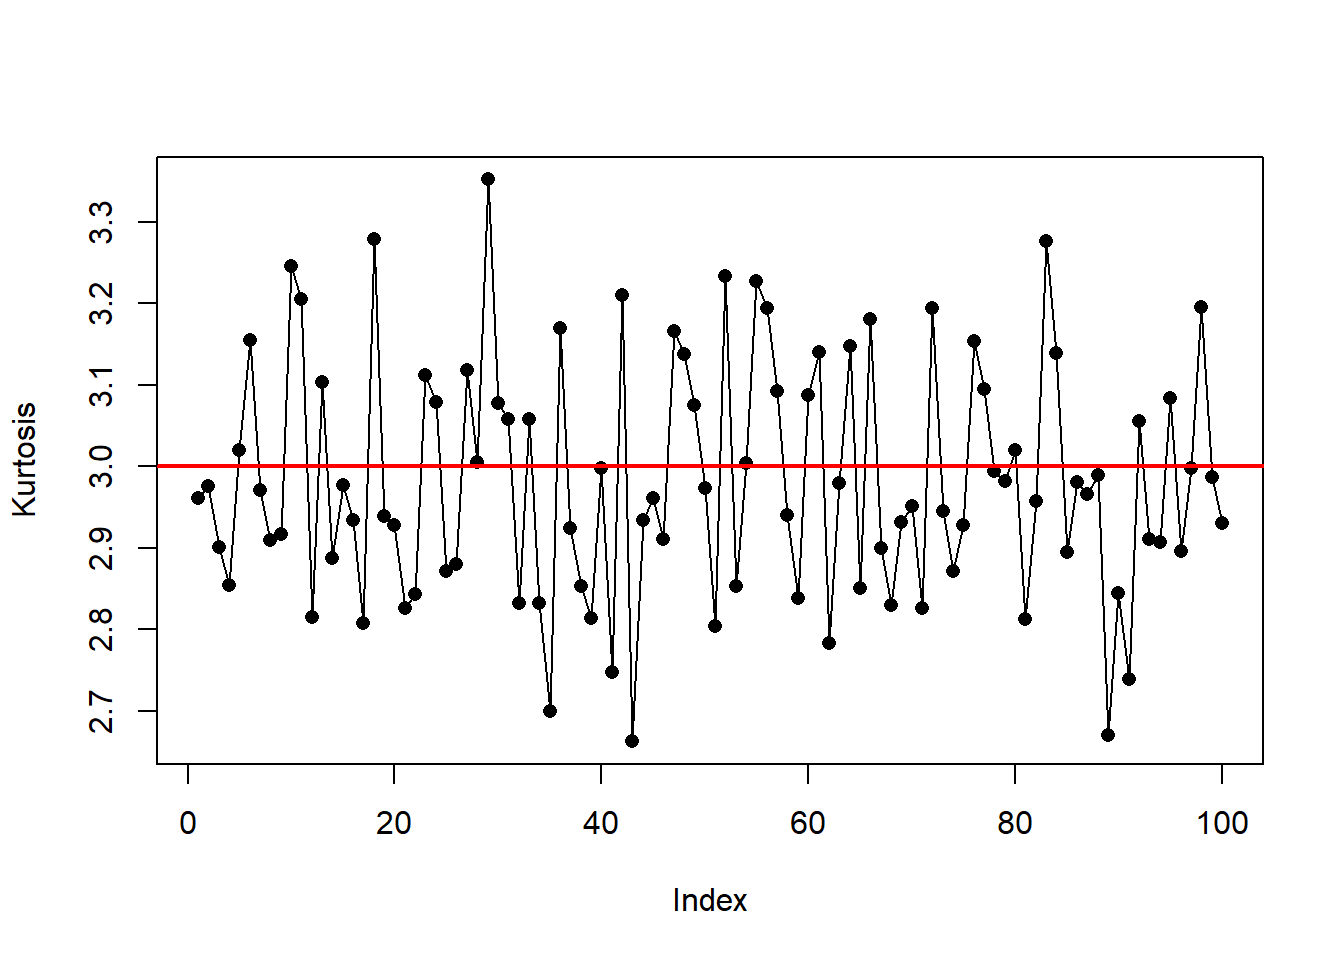
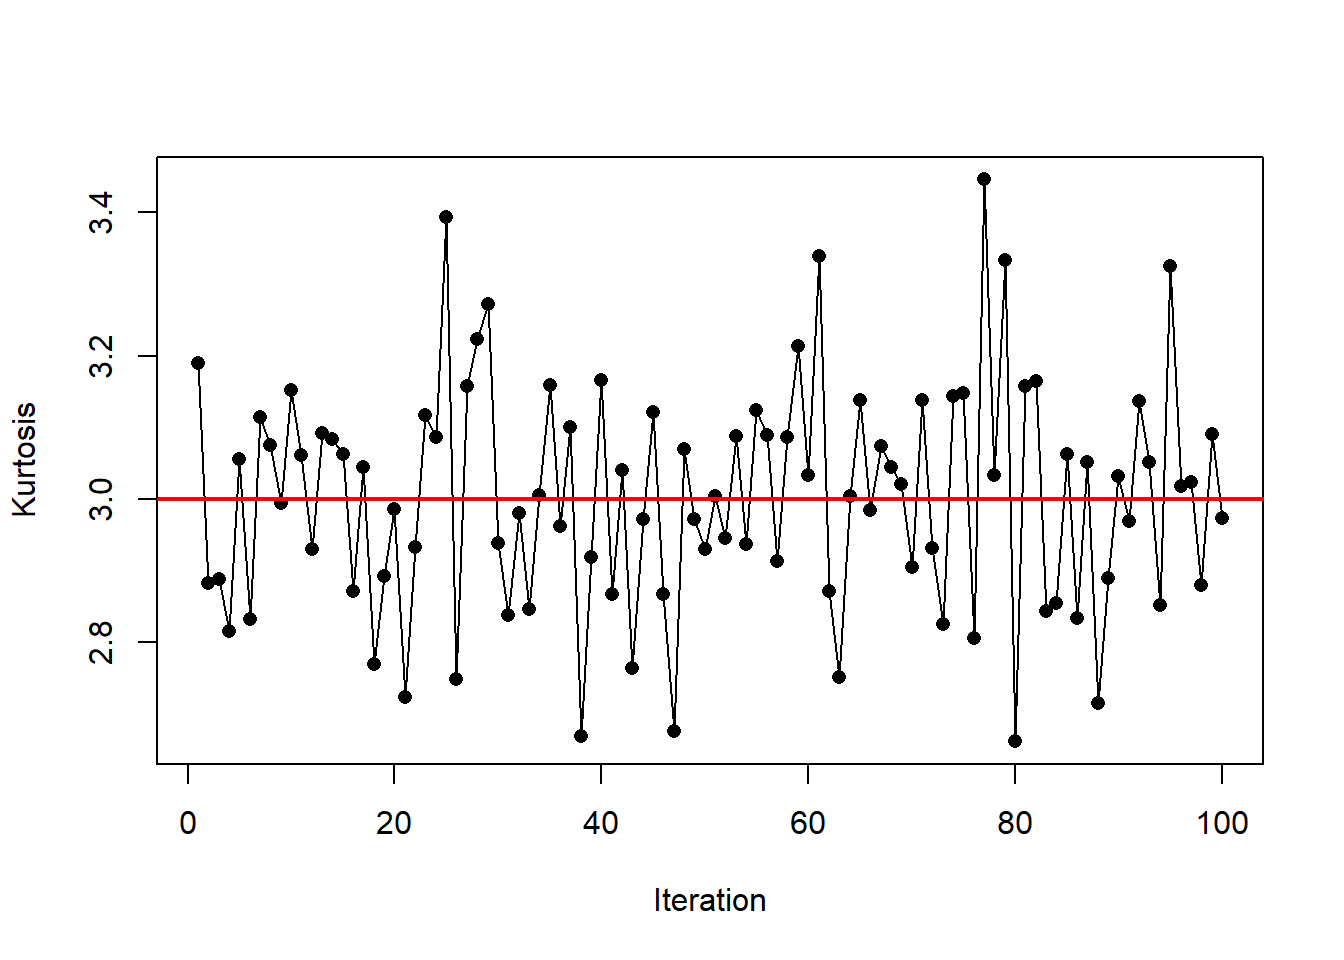
files updated

diff --git a/docs/multiplication.html b/docs/multiplication.html
@@ -122,6 +122,7 @@ code span.wa { color: #60a0b0; font-weight: bold; font-style: italic; } /* Warni
   }
 }</script>
 
+  <script src="https://cdn.jsdelivr.net/npm/mathjax@3/es5/tex-chtml-full.js" type="text/javascript"></script>
 
 <link rel="stylesheet" href="styles.css">
 </head>
@@ -187,19 +188,26 @@ code span.wa { color: #60a0b0; font-weight: bold; font-style: italic; } /* Warni
 
 </header>
 
-<p>To multiply numbers in R use <code>*</code></p>
-<div class="cell">
+<p>The kurtosis of a Normal distribution, say <span class="math inline">\(X\)</span>, is 3. This is given by <span class="math display">\[COK = \frac{\mu_4}{\sigma_X^4}= \frac{\mu_4}{(Var(X))^2}\]</span> with <span class="math inline">\(\mu_4=\mu'_4-4\mu_3'\mu_X+6\mu_2'(\mu_X)^2-3(\mu_X)^4\)</span> and <span class="math inline">\(Var(X)=E[X^2]-(E[X])^2\)</span>.</p>
+<p>The package <code>moments</code> in <code>R</code> can be used to calculate the kurtosis of a Normal distribution. If this is done multiple times on a different data set generated from a Normal distribution with mean <span class="math inline">\(\mu_X\)</span> and variance <span class="math inline">\(\sigma_X^2\)</span>, one can see that it converges to 3. Below a function named <code>kurt_norm</code> is created to implement this. The kurtosis at each iteration are shown in Figure 1.</p>
+<div class="cell" data-layout-align="center">
 <div class="sourceCode cell-code" id="cb1"><pre class="sourceCode r code-with-copy"><code class="sourceCode r"><span id="cb1-1"><a href="#cb1-1" aria-hidden="true" tabindex="-1"></a><span class="fu">library</span>(moments)</span>
 <span id="cb1-2"><a href="#cb1-2" aria-hidden="true" tabindex="-1"></a></span>
-<span id="cb1-3"><a href="#cb1-3" aria-hidden="true" tabindex="-1"></a>x_kurtosis <span class="ot">=</span> <span class="fu">c</span>()</span>
-<span id="cb1-4"><a href="#cb1-4" aria-hidden="true" tabindex="-1"></a><span class="cf">for</span> (i <span class="cf">in</span> <span class="dv">1</span><span class="sc">:</span><span class="dv">100</span>) {</span>
-<span id="cb1-5"><a href="#cb1-5" aria-hidden="true" tabindex="-1"></a>  x_norm <span class="ot">=</span> <span class="fu">rnorm</span>(<span class="dv">1000</span>)</span>
-<span id="cb1-6"><a href="#cb1-6" aria-hidden="true" tabindex="-1"></a>  x_kurtosis[i] <span class="ot">=</span> <span class="fu">kurtosis</span>(x_norm)</span>
-<span id="cb1-7"><a href="#cb1-7" aria-hidden="true" tabindex="-1"></a>  </span>
-<span id="cb1-8"><a href="#cb1-8" aria-hidden="true" tabindex="-1"></a>}</span>
-<span id="cb1-9"><a href="#cb1-9" aria-hidden="true" tabindex="-1"></a></span>
-<span id="cb1-10"><a href="#cb1-10" aria-hidden="true" tabindex="-1"></a><span class="fu">plot</span>(x_kurtosis,<span class="at">type=</span><span class="st">"o"</span>,<span class="at">ylab =</span> <span class="st">"Kurtosis"</span>,<span class="at">pch=</span><span class="dv">16</span>)</span>
-<span id="cb1-11"><a href="#cb1-11" aria-hidden="true" tabindex="-1"></a><span class="fu">abline</span>(<span class="at">h=</span><span class="dv">3</span>,<span class="at">col=</span><span class="st">"red"</span>,<span class="at">lwd=</span><span class="dv">2</span>)</span></code><button title="Copy to Clipboard" class="code-copy-button"><i class="bi"></i></button></pre></div>
+<span id="cb1-3"><a href="#cb1-3" aria-hidden="true" tabindex="-1"></a>kurt_norm <span class="ot">=</span> <span class="cf">function</span>(<span class="at">N =</span> <span class="dv">100</span>,<span class="at">n =</span> <span class="dv">1000</span>,<span class="at">mu =</span> <span class="dv">0</span>,<span class="at">sigma =</span> <span class="dv">1</span>){</span>
+<span id="cb1-4"><a href="#cb1-4" aria-hidden="true" tabindex="-1"></a>  <span class="co"># N     : number of iterations</span></span>
+<span id="cb1-5"><a href="#cb1-5" aria-hidden="true" tabindex="-1"></a>  <span class="co"># n     : sample size for the generated random values from N(mu,sigma)</span></span>
+<span id="cb1-6"><a href="#cb1-6" aria-hidden="true" tabindex="-1"></a>  <span class="co"># mu    : mean of the normal distribution</span></span>
+<span id="cb1-7"><a href="#cb1-7" aria-hidden="true" tabindex="-1"></a>  <span class="co"># sigma : variance of the normal distribution</span></span>
+<span id="cb1-8"><a href="#cb1-8" aria-hidden="true" tabindex="-1"></a>  x_kurtosis <span class="ot">=</span> <span class="fu">c</span>()</span>
+<span id="cb1-9"><a href="#cb1-9" aria-hidden="true" tabindex="-1"></a>  <span class="cf">for</span> (i <span class="cf">in</span> <span class="dv">1</span><span class="sc">:</span>N) {</span>
+<span id="cb1-10"><a href="#cb1-10" aria-hidden="true" tabindex="-1"></a>    x_norm <span class="ot">=</span> <span class="fu">rnorm</span>(n)</span>
+<span id="cb1-11"><a href="#cb1-11" aria-hidden="true" tabindex="-1"></a>    x_kurtosis[i] <span class="ot">=</span> <span class="fu">kurtosis</span>(x_norm)</span>
+<span id="cb1-12"><a href="#cb1-12" aria-hidden="true" tabindex="-1"></a>  }</span>
+<span id="cb1-13"><a href="#cb1-13" aria-hidden="true" tabindex="-1"></a>  <span class="fu">return</span>(x_kurtosis)</span>
+<span id="cb1-14"><a href="#cb1-14" aria-hidden="true" tabindex="-1"></a>}</span>
+<span id="cb1-15"><a href="#cb1-15" aria-hidden="true" tabindex="-1"></a>res <span class="ot">=</span> <span class="fu">kurt_norm</span>(<span class="at">N =</span> <span class="dv">100</span>,<span class="at">n =</span> <span class="dv">1000</span>,<span class="at">mu =</span> <span class="dv">0</span>,<span class="at">sigma =</span> <span class="dv">1</span>)</span>
+<span id="cb1-16"><a href="#cb1-16" aria-hidden="true" tabindex="-1"></a><span class="fu">plot</span>(res,<span class="at">type =</span> <span class="st">"o"</span>,<span class="at">ylab =</span> <span class="st">"Kurtosis"</span>,<span class="at">pch =</span> <span class="dv">16</span>,<span class="at">xlab =</span> <span class="st">"Iteration"</span>)</span>
+<span id="cb1-17"><a href="#cb1-17" aria-hidden="true" tabindex="-1"></a><span class="fu">abline</span>(<span class="at">h =</span> <span class="dv">3</span>,<span class="at">col =</span> <span class="st">"red"</span>,<span class="at">lwd =</span> <span class="dv">2</span>)</span></code><button title="Copy to Clipboard" class="code-copy-button"><i class="bi"></i></button></pre></div>
 <div class="cell-output-display">
 <div class="quarto-figure quarto-figure-center">
 <figure class="figure">
